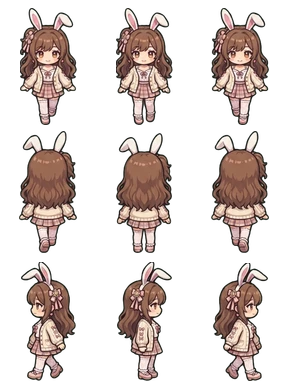
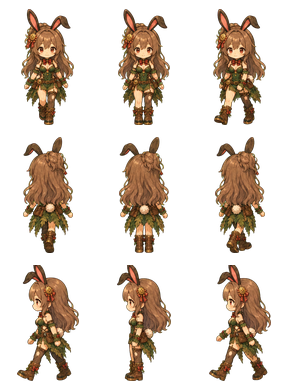
W3: Codex納品スプライト18点を結線（村人4方向・ポロ歩行・道標10種）＋再入場で真っ黒になるバグ修正
納品検収：18点すべて寸法（288x384／128x128）・四隅透過・グリッド（3列×3行＝正面/背中/左向き）合格。
folk5（翼の店員）は未納品との報告どおり欠品。

結線
- ミミ＝同じグリッドなので置くだけ。衣装は指示訂正どおり**ジャングルバニー**。
- 村人＝1枚まとめシート（正面のみ）から**キャラ別シート**へ。進む向きで行を選び、列で足が動く。
  読み込むのは**そのエリアに出る人ぶんだけ**（6人ぶん常に読むのは無駄）。
  欠品（folk5）は自動で旧シートに退避＝レース場のNPCは今までどおり表示される（実機で確認）。
- ポロ＝立ち絵1枚＋跳ねだった描画を歩行シートへ。足あと（距離7px×13点）の仕組みは不変。
  ※シートが来たのに1枚絵として描いていたら3×3が潰れて出るところだった（差し替えと同時に修正）。
- 道標＝手続き描画の灯りを看板/のれん/幟/「？」の煙へ。アイコン→絵柄の対応表で引き、
  絵が無いもの（🍵休憩処）は従来の灯りのまま。隠しの「？」は fail-closed のまま不変。
  大きさはミミ（118）の約2/3に置き、足元をマスの中心に合わせて影を1枚敷いた（最初46で小さすぎた）。

ついでに直した実バグ
- 歩く→ホーム→すぐ歩く、で**十字キーだけの真っ黒な画面**になった。前のシーンの掃除係（900ms間隔）が
  こちらが開いたあとに発火し、無条件の KW=null で新しい方の状態を消していた。
  自分のシーンのぶんだけ片付けるよう修正。手順を再現して復帰を確認。

実機確認（390x700）：4エリアで新シート読込／folk5だけ旧シートに退避／道標の絵柄が全エリアで解決／
ポロが歩行コマで随行／再入場で黒画面にならない／歩行・エリア移動でコイン変化 0。

表示専用。レースの着順・オッズ・配当には触れていない。

diff --git a/js/scene_konron.js b/js/scene_konron.js
@@ -17,7 +17,7 @@
 const KW_COLS = 32, KW_ROWS = 24;
 const KW_MAPW = 1920, KW_MAPH = 1440;
 const KW_CW = KW_MAPW / KW_COLS, KW_CH = KW_MAPH / KW_ROWS;
-const KW_V = "20260728b";
+const KW_V = "20260728e";
 
 // ── エリア台帳。map は背景画（1920×1440）に対する当たり判定＝32×24のマス目。
 //   '#'=入れない / '.'=歩ける。背景を10%グリッドで実測して起こし、赤塗り合成で突き合わせて是正した。
@@ -315,7 +315,17 @@ function renderKonronWalk(areaId) {
   app.appendChild(stage);
 
   const imgs = { bg: area.img + "?v=" + KW_V, mimi: "images/scene/konron/mimi_walk.webp?v=" + KW_V };
-  imgs.folk = "images/scene/konron/folk.webp?v=" + KW_V;                    // すれちがいNPC（欠けても動く）
+  imgs.folk = "images/scene/konron/folk.webp?v=" + KW_V;                    // 旧・1枚まとめシート（新シートが欠けた時の受け皿）
+  // ★このエリアに出る村人ぶんだけ読む（6人ぶん常に読むと無駄が大きい）。欠けたら null＝旧シートへ落ちる。
+  (area.npcs || []).forEach(function (n) {
+    const k = "folk" + ((n.s | 0) + 1);
+    imgs[k] = "images/scene/konron/" + k + ".webp?v=" + KW_V;
+  });
+  // ★入口の道標も、このエリアで使う絵柄ぶんだけ。欠けたら手続き描画の灯りに落ちる。
+  (area.doors || []).forEach(function (d) {
+    const s = KW_SIGN[d.hidden ? "❓" : d.ic];
+    if (s) imgs["sg_" + s] = "images/scene/konron/props/" + s + ".webp?v=" + KW_V;
+  });
   if (typeof poroFound === "function" && poroFound()) imgs.poro = "images/scene/konron/poro_walk.webp?v=" + KW_V;
 
   const scene = Scene.create({
@@ -325,7 +335,10 @@ function renderKonronWalk(areaId) {
     onUpdate: function (dt, S) { kwUpdate(dt, S); },
     onDraw: function (ctx, cam, layer, S, t) { kwDraw(ctx, cam, layer, S, t); },
     onAct: function () { kwAct(); },
-    onExit: function () { KW = null; },
+    // ★自分のシーンのぶんだけ片付ける。前のシーンの掃除係（900ms間隔）は、こちらが新しく開いた
+    //   あとから発火することがある。無条件に KW=null すると**新しい方の状態が消されて**
+    //   十字キーだけ残った真っ黒な画面になる（歩く→ホーム→すぐ歩く で再現した）。
+    onExit: function () { if (KW && KW.scene === scene) KW = null; },
   });
 
   KW = { scene: scene, hud: hud, area: area, mimi: null, near: null, dir: 0, step: 0, moving: false, trail: [], npcs: [] };
@@ -344,10 +357,15 @@ function kwSetup(a, S) {
   KW.bg = a.bg || null;
   KW.folk = a.folk || null;
   KW.poroImg = a.poro || null;
+  KW.signs = a;                                          // 道標は a.sg_<name> で引く（無ければ灯り）
   KW.trail = [];
   // すれちがいNPC＝歩ける範囲をゆっくり気ままに歩く
   KW.npcs = (ar.npcs || []).map(function (n) {
-    return { x: (n.c + 0.5) * KW_CW, y: (n.r + 0.5) * KW_CH, s: n.s | 0, line: n.line,
+    const s = n.s | 0;
+    return { x: (n.c + 0.5) * KW_CW, y: (n.r + 0.5) * KW_CH, s: s, line: n.line,
+             // 専用シート（3列×3行）。未納品なら null＝旧・1枚まとめシートで描く。
+             sheet: a["folk" + (s + 1)] || null,
+             dir: 0, face: 1,
              vx: 0, vy: 0, wait: Math.random() * 2, step: Math.random() * 4 };
   });
 }
@@ -403,6 +421,9 @@ function kwUpdate(dt, S) {
       if (!kwBlocked(nx, n.y)) n.x = nx; else n.vx = 0;
       if (!kwBlocked(n.x, ny)) n.y = ny; else n.vy = 0;
       n.step += dt * 5;
+      // 進む向きへ体を向ける（ミミと同じ規約＝0正面 1背中 2横・横は左向き素材）
+      if (n.vy < 0) n.dir = 1; else if (n.vy > 0) n.dir = 0; else if (n.vx) n.dir = 2;
+      if (n.vx) n.face = n.vx < 0 ? -1 : 1;
     }
   }
 
@@ -443,6 +464,13 @@ function kwAct() {
   kwExit();
   try { d.go(); } catch (e) { if (typeof renderKonronMap === "function") renderKonronMap(); }
 }
+
+// 入口アイコン → 道標スプライト（images/scene/konron/props/）。載っていないアイコンは灯りのまま。
+const KW_SIGN = {
+  "🏬": "sign_mall", "🍢": "sign_market", "🍧": "sign_market", "📷": "sign_photo",
+  "🏨": "sign_inn", "⛴": "sign_pier", "🏟": "sign_race", "🏁": "sign_race",
+  "♨": "sign_onsen", "🏖": "sign_beach", "🏙": "sign_back", "🏝": "sign_back", "❓": "q_smoke",
+};
 
 // シートから1コマ描く（96×128セル）。row=0正面 1背中 2横（横は左向き素材＝右向きは反転）
 function kwDrawCell(ctx, sheet, col, row, sx, sy, H, flip) {
@@ -489,8 +517,13 @@ function kwDraw(ctx, cam, layer, S, t) {
     const px = (n.x - cam.x) * sc, py = (n.y - cam.y) * sc;
     if (px < -60 || py < -80 || px > S.vw + 60 || py > S.vh + 60) return;
     kwShadow(ctx, px, py, folkH * 0.22, folkH * 0.05);
-    if (KW.folk) {
-      const col = n.s % 3, row = (n.s / 3) | 0;
+    if (n.sheet) {
+      // 専用シート＝ミミと同じ読み方（列=歩行コマ／行=向き）。止まっている間は立ちコマ。
+      const moving = !!(n.vx || n.vy);
+      const col = moving ? [1, 0, 1, 2][Math.floor(n.step) % 4] : 1;
+      kwDrawCell(ctx, n.sheet, col, n.dir, px, py, folkH, n.dir === 2 && n.face > 0);
+    } else if (KW.folk) {
+      const col = n.s % 3, row = (n.s / 3) | 0;             // 旧・1枚まとめシート（正面のみ）
       ctx.save();
       ctx.drawImage(KW.folk, col * 96, row * 128, 96, 128, px - folkH * (96 / 128) / 2, py - folkH, folkH * (96 / 128), folkH);
       ctx.restore();
@@ -500,18 +533,16 @@ function kwDraw(ctx, cam, layer, S, t) {
     }
   });
 
-  // ── ポロ（ミミの少し後ろを、ちょこちょこ跳ねてついてくる）
-  //   ポロの立ち絵は正面1枚しかないので、歩行コマではなく**跳ね**で歩いてる感じを出す。
+  // ── ポロ（ミミの少し後ろを、ちょこちょこ歩いてついてくる）
+  //   歩行シート（3列×3行）が来たので、ミミと同じ読み方で足も動く。跳ねは少しだけ残して軽さを出す。
   if (KW.poro && KW.poroImg) {
     const p = KW.poro;
-    const ph = H * 0.60, pw = ph * (KW.poroImg.naturalWidth / KW.poroImg.naturalHeight);
-    const hop = (KW.moving && !S.reduce) ? Math.abs(Math.sin(KW.step * 1.6)) * ph * 0.10 : 0;
+    const ph = H * 0.60, pw = ph * (96 / 128);
+    const hop = (KW.moving && !S.reduce) ? Math.abs(Math.sin(KW.step * 1.6)) * ph * 0.06 : 0;
     const px = (p.x - cam.x) * sc, py = (p.y - cam.y) * sc;
     kwShadow(ctx, px, py, pw * 0.34, ph * 0.055);
-    ctx.save();
-    if (p.f < 0) { ctx.translate(px, 0); ctx.scale(-1, 1); ctx.translate(-px, 0); }   // 進む向きに体を向ける
-    ctx.drawImage(KW.poroImg, px - pw / 2, py - ph - hop, pw, ph);
-    ctx.restore();
+    const col = KW.moving ? [1, 0, 1, 2][Math.floor(KW.step) % 4] : 1;
+    kwDrawCell(ctx, KW.poroImg, col, p.d | 0, px, py - hop, ph, (p.d | 0) === 2 && p.f > 0);
   }
 
   // ── ミミ
@@ -534,6 +565,19 @@ function kwDraw(ctx, cam, layer, S, t) {
     const bob = S.reduce ? 0 : Math.sin(t / 520 + d.c) * 2.4 * sc;
     const R = Math.max(3, 4.6 * sc);
     const hid = !!d.hidden;                                  // 隠しは白い「？」の煙として立つ
+    // ★道標スプライトがあればそれを立てる（看板・のれん・「？」の煙）。無ければ従来の灯り。
+    const sg = KW.signs && KW.signs["sg_" + KW_SIGN[hid ? "❓" : d.ic]];
+    if (sg) {
+      // 128×128の正方をそのままの比で、**足元をマスの中心に置いて立たせる**。
+      //   高さはミミ（118）の約2/3＝道しるべとして目に入るが人物より小さい、の関係。
+      const sh = 78 * sc, sw = sh, groundY = py + 26 * sc;
+      ctx.save();
+      ctx.globalAlpha = hid ? 0.92 : 1;
+      if (!hid) kwShadow(ctx, px, groundY, sw * 0.20, sh * 0.035);   // 浮いて見えないよう影を1枚
+      ctx.drawImage(sg, px - sw / 2, groundY + bob - sh + 4 * sc, sw, sh);
+      ctx.restore();
+      return;
+    }
     ctx.save();
     ctx.translate(px, py + bob);
     const g = ctx.createRadialGradient(0, 0, 0, 0, 0, R * 3.4);

diff --git a/index.html b/index.html
@@ -130,7 +130,7 @@
 <script src="js/ui_konron_map.js?v=20260728a"></script>
 <!-- 共通シーン基盤（canvas1枚・固定タイムステップ・レイヤ・十字キー）＋ 歩いてまわる崑崙島（β） -->
 <script src="js/scene_engine.js?v=20260727c"></script>
-<script src="js/scene_konron.js?v=20260728b"></script>
+<script src="js/scene_konron.js?v=20260728e"></script>
 <script src="js/story_reveal.js?v=20260725l"></script>
 <script src="js/ui_story.js?v=20260725l"></script>
 <script src="js/ui_sns.js?v=20260725l"></script>
